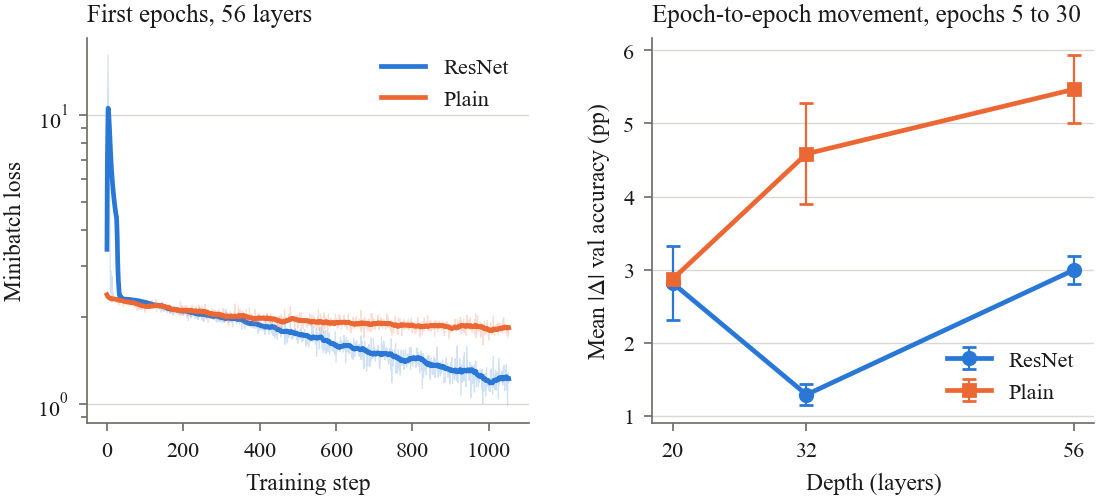
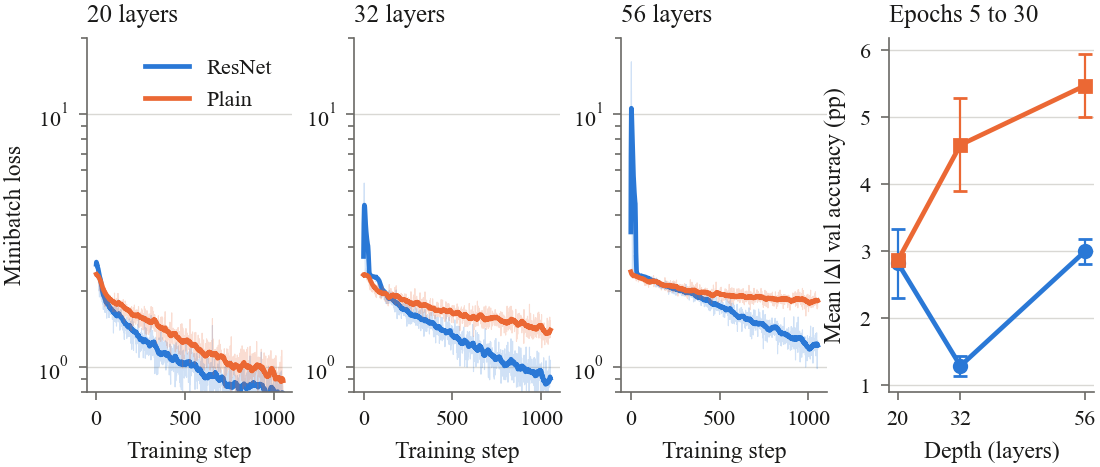
fix the tables

diff --git a/analysis/plot_results.py b/analysis/plot_results.py
@@ -260,42 +260,46 @@ def fig_grad_evolution(runs):
     plt.close(fig)
 
 
-def fig_stability(df, runs, depth, window=25):
-    fig, axes = plt.subplots(1, 2, figsize=(FULL, 2.5))
-    fig.subplots_adjust(wspace=0.28)
+def fig_stability(df, window=25):
+    depths = sorted(df[df.variant.isin(ARMS)].depth.unique())
+    fig, axes = plt.subplots(1, len(depths) + 1, figsize=(FULL, 2.3))
+    fig.subplots_adjust(wspace=0.3)
 
-    ax = axes[0]
-    for variant, run_name in runs.items():
-        d = read_run(run_name, "steps.csv")
-        if d is None:
-            continue
-        d = d.sort_values(["epoch", "step"]).reset_index(drop=True)
-        x = np.arange(len(d))
-        ax.plot(x, d.loss, color=SERIES[variant], lw=0.4, alpha=0.22)
-        ax.plot(x, d.loss.rolling(window, min_periods=1).mean(),
-                color=SERIES[variant], label=LABEL[variant])
-    # the ResNet opens an order of magnitude above the plain network and comes
-    # back down within the first epoch; a linear axis shows only the spike
-    ax.set_yscale("log")
-    ax.set_xlabel("Training step")
-    ax.set_ylabel("Minibatch loss")
-    ax.set_title(f"First epochs, {depth} layers", loc="left")
-    ax.legend()
-    style.tidy(ax)
+    for ax, depth in zip(axes, depths):
+        for variant in ARMS:
+            s = df[(df.variant == variant) & (df.depth == depth)].sort_values("seed")
+            if s.empty:
+                continue
+            d = read_run(s.run_name.iloc[0], "steps.csv")
+            if d is None:
+                continue
+            d = d.sort_values(["epoch", "step"]).reset_index(drop=True)
+            x = np.arange(len(d))
+            ax.plot(x, d.loss, color=SERIES[variant], lw=0.4, alpha=0.22)
+            ax.plot(x, d.loss.rolling(window, min_periods=1).mean(),
+                    color=SERIES[variant], label=LABEL[variant])
+        # the ResNet opens an order of magnitude above the plain network at the
+        # deepest setting; a linear axis shows only that spike
+        ax.set_yscale("log")
+        ax.set_ylim(0.8, 20)
+        ax.set_xlabel("Training step")
+        ax.set_title(f"{depth} layers", loc="left")
+        style.tidy(ax)
+    axes[0].set_ylabel("Minibatch loss")
+    axes[0].legend(loc="upper right")
 
     vol = val_volatility(df[df.variant.isin(ARMS)])
     agg = vol.groupby(["depth", "variant"]).volatility.agg(["mean", "min", "max"]).reset_index()
-    ax = axes[1]
+    ax = axes[-1]
     for variant in ARMS:
-        s = agg[agg.variant == variant].sort_values("depth")
-        ax.errorbar(s.depth, s["mean"], yerr=[s["mean"] - s["min"], s["max"] - s["mean"]],
+        v = agg[agg.variant == variant].sort_values("depth")
+        ax.errorbar(v.depth, v["mean"], yerr=[v["mean"] - v["min"], v["max"] - v["mean"]],
                     marker=MARKER[variant], color=SERIES[variant], capsize=2.5,
                     elinewidth=0.8, label=LABEL[variant])
-    ax.set_xticks(sorted(agg.depth.unique()))
+    ax.set_xticks(depths)
     ax.set_xlabel("Depth (layers)")
     ax.set_ylabel("Mean $|\\Delta|$ val accuracy (pp)")
-    ax.set_title("Epoch-to-epoch movement, epochs 5 to 30", loc="left")
-    ax.legend()
+    ax.set_title("Epochs 5 to 30", loc="left")
     style.tidy(ax)
 
     fig.savefig(os.path.join(FIG_DIR, "fig5_stability.png"))
@@ -456,23 +460,27 @@ def val_volatility(df, from_epoch=5):
 
 
 def latex_table(df):
+    # the whole tabular, not just its rows: \input of a row fragment inside a
+    # tabular leaves \bottomrule without its \cr and the table renders wrong
     base = df[df.variant.isin(ARMS)]
     depths = sorted(base.depth.unique())
-    lines = []
+    lines = [r"\begin{tabular}{l" + "c" * len(depths) + "}", r"\toprule",
+             " & " + " & ".join(f"{d} layers" for d in depths) + r" \\", r"\midrule"]
     for variant in ARMS:
         for metric, tag in [("fit_acc", "train"), ("test_acc", "test")]:
             cells = []
             for d in depths:
-                s = base[(base.variant == variant) & (base.depth == d)][metric].dropna()
-                if s.empty:
+                v = base[(base.variant == variant) & (base.depth == d)][metric].dropna()
+                if v.empty:
                     cells.append("--")
-                elif len(s) > 1:
-                    cells.append(f"{s.mean() * 100:.1f} $\\pm$ {s.std() * 100:.1f}")
+                elif len(v) > 1:
+                    cells.append(f"{v.mean() * 100:.1f} $\\pm$ {v.std() * 100:.1f}")
                 else:
-                    cells.append(f"{s.mean() * 100:.1f}")
+                    cells.append(f"{v.mean() * 100:.1f}")
             lines.append(f"{LABEL[variant]} ({tag}) & " + " & ".join(cells) + r" \\")
+    lines += [r"\bottomrule", r"\end{tabular}"]
     body = "\n".join(lines)
-    with open(os.path.join(RESULTS_DIR, "table1_body.tex"), "w") as f:
+    with open(os.path.join(RESULTS_DIR, "table1_depth.tex"), "w") as f:
         f.write(body + "\n")
     print(body)
 
@@ -481,7 +489,9 @@ def latex_runs_table(df):
     # with two seeds a standard deviation is barely a statistic, so the appendix
     # lists the runs themselves and lets the reader see the spread directly
     vol = val_volatility(df).set_index("run_name")
-    lines = []
+    lines = [r"\begin{tabular}{llcrcccrc}", r"\toprule",
+             r"Depth & Variant & Seed & Params & Fit & Val & Test & Reach & Move \\",
+             r"\midrule"]
     for _, r in df.sort_values(["depth", "variant", "alpha", "seed"]).iterrows():
         d = read_run(r.run_name, "epochs.csv")
         reached = "--"
@@ -494,10 +504,9 @@ def latex_runs_table(df):
                      f"{r.fit_acc * 100:.2f} & {r.sel_val_acc * 100:.2f} & "
                      f"{r.test_acc * 100:.2f} & {reached} & "
                      f"{vol.volatility.get(r.run_name, float('nan')):.2f} \\\\")
-    # no trailing \\ on the last row, or booktabs draws a rule under an empty one
-    body = "\n".join(lines).rstrip("\\")
-    with open(os.path.join(RESULTS_DIR, "table_runs_body.tex"), "w") as f:
-        f.write(body + "\n")
+    lines += [r"\bottomrule", r"\end{tabular}"]
+    with open(os.path.join(RESULTS_DIR, "table_runs.tex"), "w") as f:
+        f.write("\n".join(lines) + "\n")
 
 
 def main():
@@ -526,7 +535,7 @@ def main():
           f"largest residual {np.abs(resid).max():.2f} pp")
     print(df.assign(resid=resid).groupby("variant").resid.mean().to_string(), "\n")
 
-    stab = fig_stability(df, runs, depth)
+    stab = fig_stability(df)
     print(stab.to_string(index=False), "\n")
     print(fig_alpha_sweep(df, deepest_n).to_string(index=False), "\n")
     imb = fig_imbalance_vs_depth(df)

diff --git a/results/table_runs.tex b/results/table_runs.tex
@@ -1,3 +1,7 @@
+\begin{tabular}{llcrcccrc}
+\toprule
+Depth & Variant & Seed & Params & Fit & Val & Test & Reach & Move \\
+\midrule
 20 & Plain & 0 & 269{,}722 & 94.46 & 88.60 & 88.53 & 12 & 2.82 \\
 20 & Plain & 1 & 269{,}722 & 94.30 & 88.80 & 88.55 & 13 & 2.92 \\
 20 & ResNet & 0 & 269{,}722 & 96.10 & 90.10 & 90.14 & 8 & 3.33 \\
@@ -12,4 +16,6 @@
 56 & ResNet & 1 & 853{,}018 & 98.22 & 91.00 & 91.06 & 8 & 3.19 \\
 56 & $\alpha=0.25$ & 0 & 853{,}018 & 84.98 & 81.66 & 81.40 & 26 & 4.08 \\
 56 & $\alpha=0.5$ & 0 & 853{,}018 & 90.14 & 85.68 & 85.57 & 22 & 4.10 \\
-56 & $\alpha=0.75$ & 0 & 853{,}018 & 96.19 & 89.80 & 90.13 & 12 & 2.36 
+56 & $\alpha=0.75$ & 0 & 853{,}018 & 96.19 & 89.80 & 90.13 & 12 & 2.36 \\
+\bottomrule
+\end{tabular}

diff --git a/results/table1_depth.tex b/results/table1_depth.tex
@@ -1,4 +1,10 @@
+\begin{tabular}{lccc}
+\toprule
+ & 20 layers & 32 layers & 56 layers \\
+\midrule
 ResNet (train) & 96.1 $\pm$ 0.0 & 97.5 $\pm$ 0.3 & 98.0 $\pm$ 0.2 \\
 ResNet (test) & 90.2 $\pm$ 0.1 & 90.6 $\pm$ 0.2 & 91.0 $\pm$ 0.1 \\
 Plain (train) & 94.4 $\pm$ 0.1 & 92.5 $\pm$ 0.2 & 80.6 $\pm$ 3.6 \\
 Plain (test) & 88.5 $\pm$ 0.0 & 87.1 $\pm$ 0.0 & 77.8 $\pm$ 2.4 \\
+\bottomrule
+\end{tabular}
